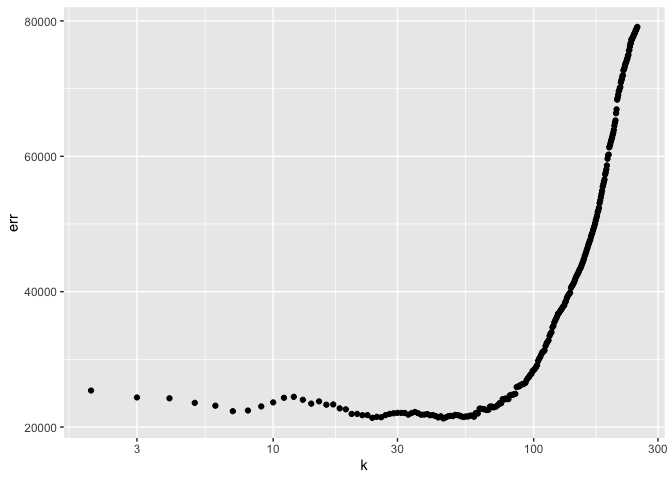
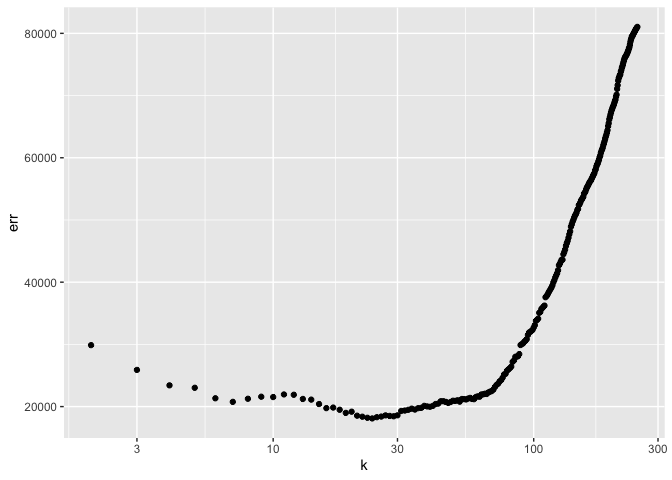
Removed comment message

diff --git a/ECO395M_Exercises_01.md b/ECO395M_Exercises_01.md
@@ -7,7 +7,7 @@ biggest cities in the United States by population.
 NYC Airport Destinations: JFK  
 LA Airport Destinations: LAX, SNA, ONT, LGB
 
-    ## `summarise()` has grouped output by 'dest_city'. You can override using the `.groups` argument.
+    `summarise()` has grouped output by 'dest_city'. You can override using the `.groups` argument.
 
 ![](ECO395M_Exercises_01_files/figure-markdown_github/unnamed-chunk-1-1.png)
 
@@ -61,7 +61,7 @@ always lower than the average male swimmer age.
 
 ![](ECO395M_Exercises_01_files/figure-markdown_github/unnamed-chunk-8-1.png)
 
-The optimal k is 6
+The optimal k is 89
 
 ![](ECO395M_Exercises_01_files/figure-markdown_github/unnamed-chunk-9-1.png)
 
@@ -69,6 +69,6 @@ The optimal k is 6
 
 ![](ECO395M_Exercises_01_files/figure-markdown_github/unnamed-chunk-10-1.png)
 
-The optimal k is 45
+The optimal k is 24
 
 ![](ECO395M_Exercises_01_files/figure-markdown_github/unnamed-chunk-11-1.png)
